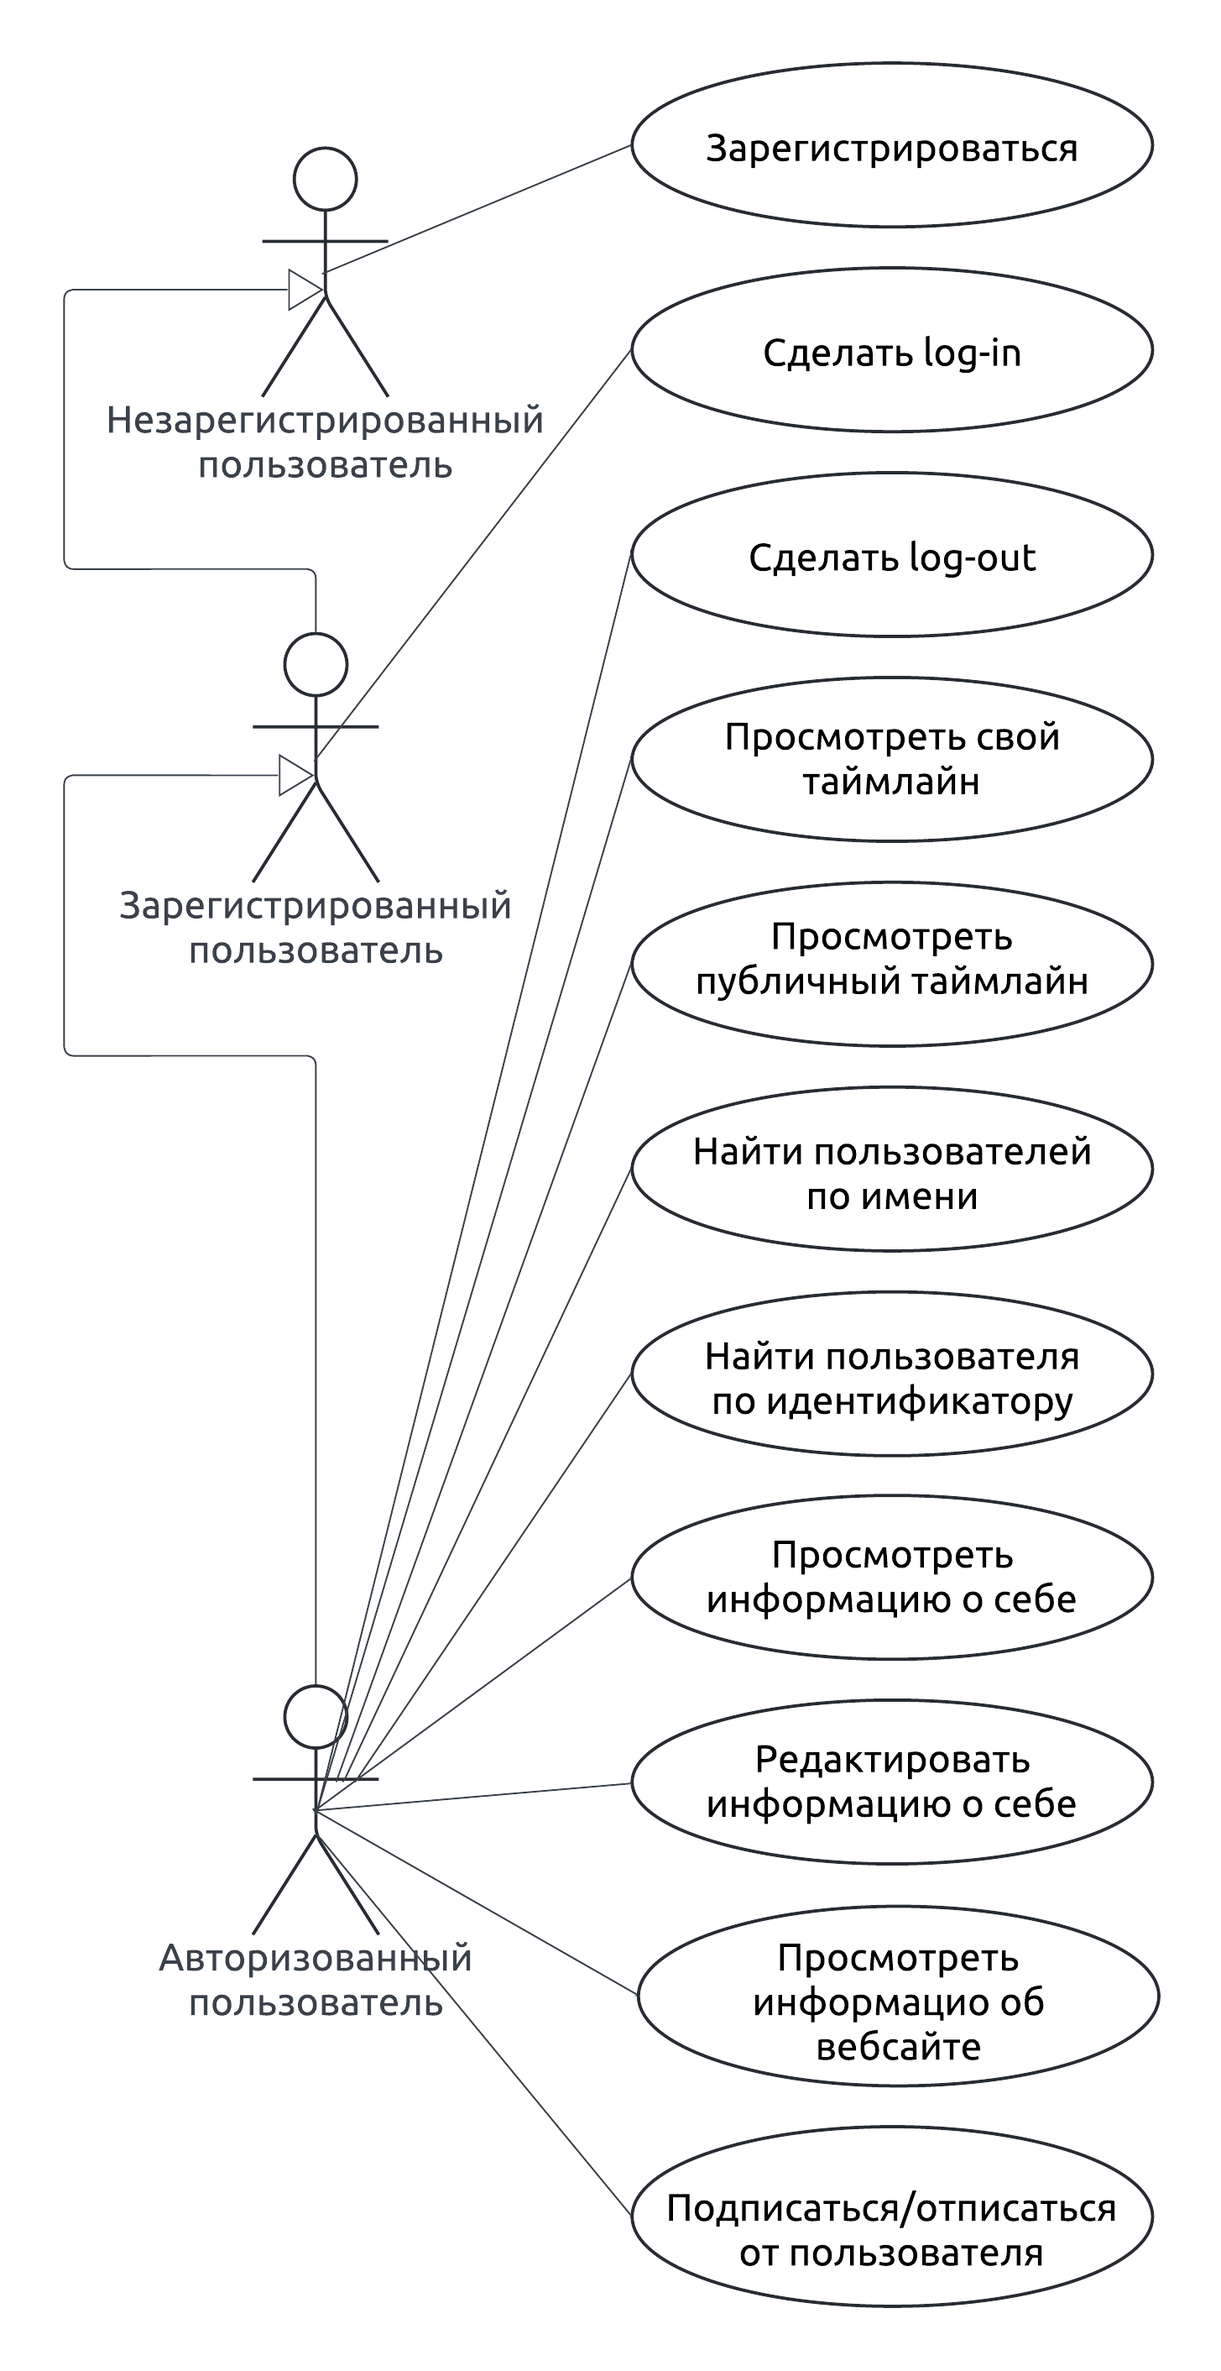
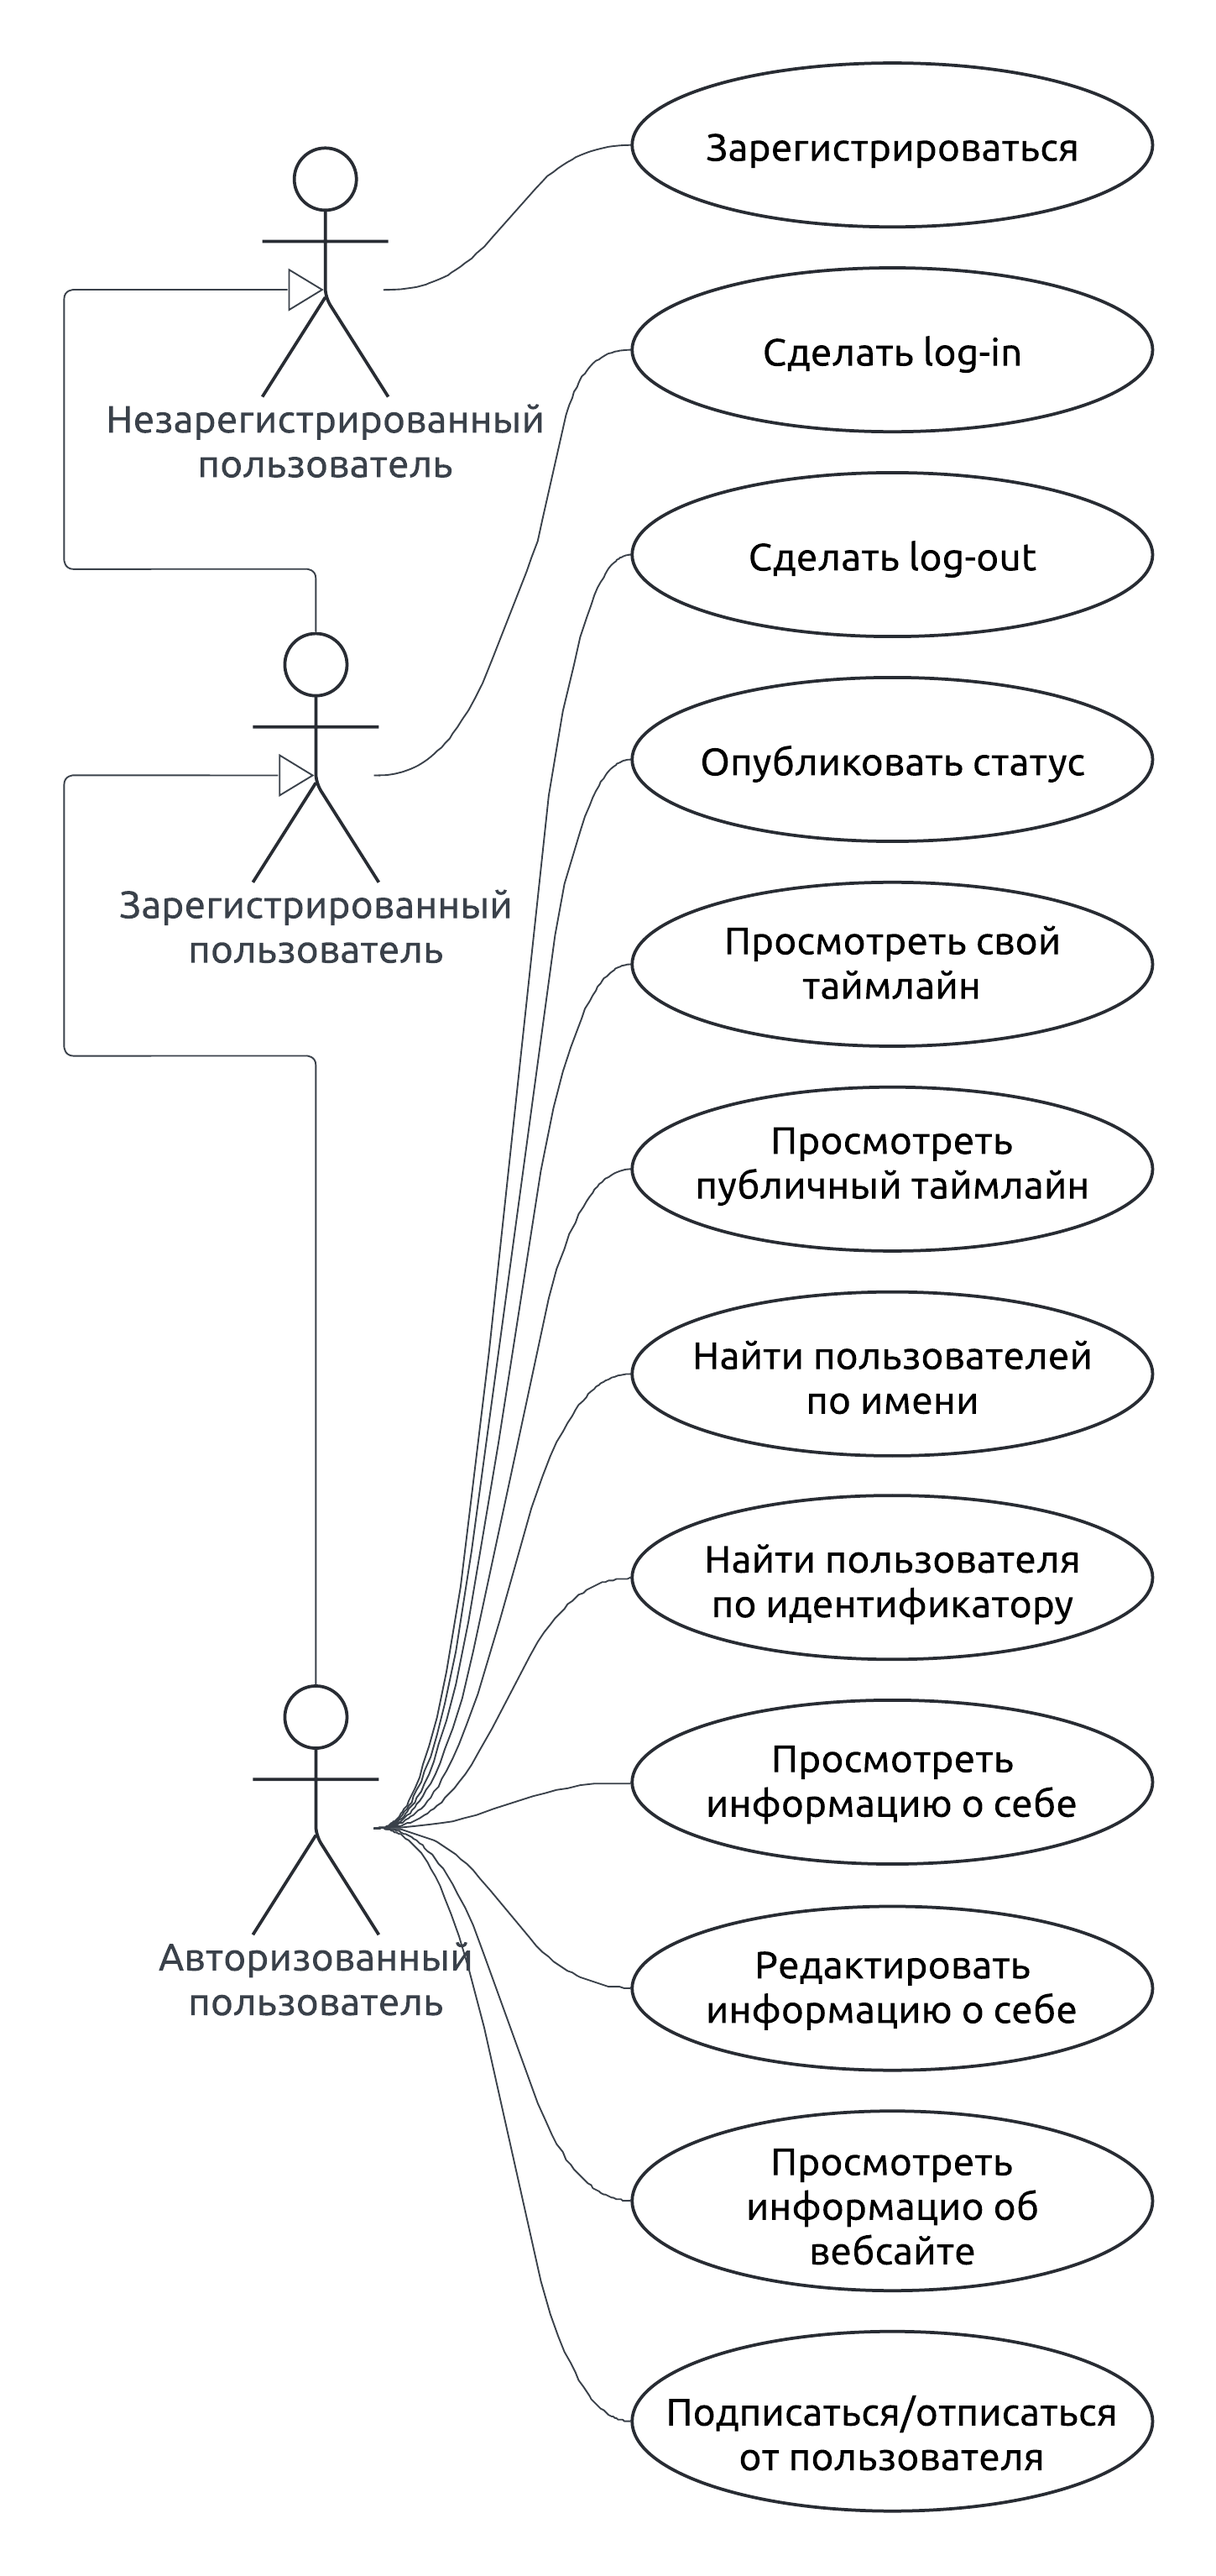
Update image, fix use cases

diff --git a/diploma/4. Проектирование.md b/diploma/4. Проектирование.md
@@ -187,3 +187,13 @@
 Альтернатива 1:
 6. (К) отображает, что пользователя не существует, если были указаны неправильные данные
 Пост-условие: (АП) находится на главном экране
+
+Сценарий АП.10 - Публикация статуса
+Роль: (АП)
+Пре-увлосие: (АП) находится на главном экране
+Основной сценарий:
+1. (АП) нажимает на кнопку "создать статус"
+2. (К) отображает форму для создания статуса: поле текста, область видимости, поле языка статуса и кнопку "опубликовать"
+3. (АП) вводит информацию для публикации, нажимает на кнопку "опубликовать"
+4. (К) отправляет запрос (С) на создание публикации
+Пост-условие: (АП) находится на главном экране
